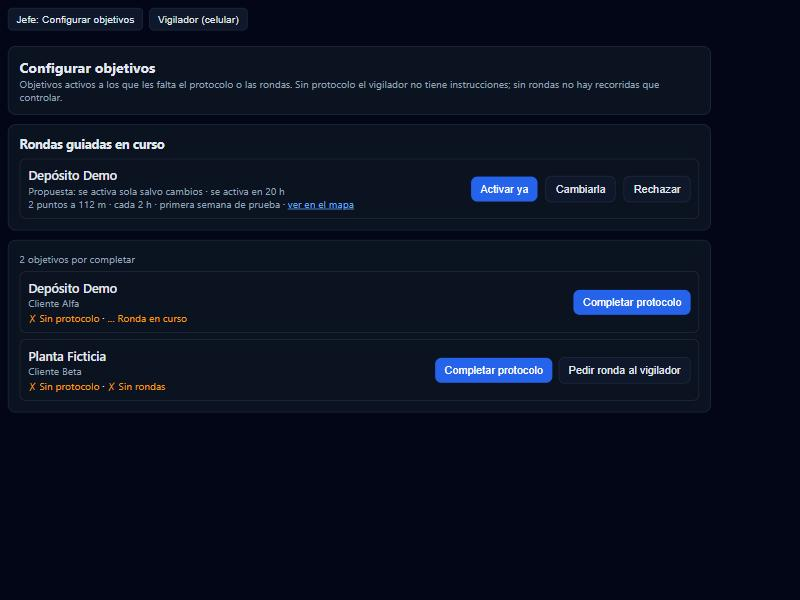
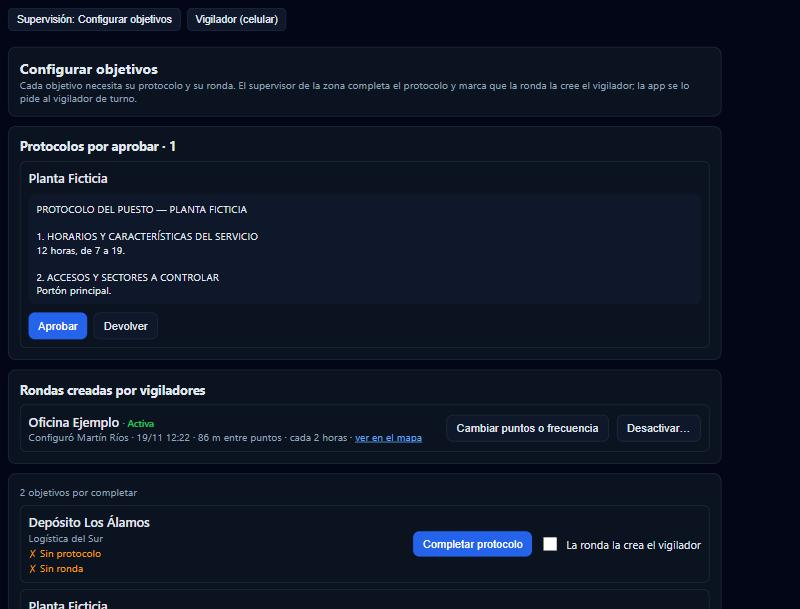
Alta de protocolos y rondas: hora en 24 h, documento actualizado y capturas con datos ficticios

diff --git a/components/configuracion-guiada/ConfiguracionGuiadaPanel.tsx b/components/configuracion-guiada/ConfiguracionGuiadaPanel.tsx
@@ -158,7 +158,7 @@ export default function ConfiguracionGuiadaPanel({ objetivos, puedeAprobar, nomb
                 <div style={{ flex: '1 1 260px' }}>
                   <div style={{ fontWeight: 600 }}>{nombre(g.objetivo_id)} <span style={{ fontSize: 12, color: g.estado === 'activa' ? C.verde : C.ambar }}>· {ETIQUETA_ESTADO_RONDA_GUIADA[g.estado]}</span></div>
                   {g.estado === 'activa' ? (
-                    <div style={sub}>Configuró {nombrePersona(g.capturada_por)} · {g.activada_at ? new Date(g.activada_at).toLocaleString('es-AR', { dateStyle: 'short', timeStyle: 'short' }) : ''} · {g.distancia_metros} m entre puntos · {textoFrecuencia(g.frecuencia_minutos ?? 120)}
+                    <div style={sub}>Configuró {nombrePersona(g.capturada_por)} · {g.activada_at ? new Date(g.activada_at).toLocaleString('es-AR', { day: '2-digit', month: '2-digit', hour: '2-digit', minute: '2-digit', hour12: false }).replace(',', '') : ''} · {g.distancia_metros} m entre puntos · {textoFrecuencia(g.frecuencia_minutos ?? 120)}
                       {g.p1_lat != null && g.p2_lat != null && <> · <a style={{ color: '#60a5fa' }} target="_blank" rel="noreferrer" href={`https://www.google.com/maps/dir/${g.p1_lat},${g.p1_lng}/${g.p2_lat},${g.p2_lng}`}>ver en el mapa</a></>}</div>
                   ) : (
                     <div style={sub}>{nombrePersona(g.capturada_por)} no pudo crearla: {MOTIVOS_PROBLEMA[g.motivo_revision ?? 'otro']}{g.detalle_revision ? ` (${g.detalle_revision})` : ''}. No se activó ninguna ronda.</div>

diff --git a/docs/gestion-empresarial/configuracion-guiada.md b/docs/gestion-empresarial/configuracion-guiada.md
@@ -1,55 +1,85 @@
-# Configuración guiada de objetivos nuevos (19/11/2026)
+# Alta automática de protocolos y rondas (diseño aprobado el 19/11/2026)
 
-Rama `feat/tablero-gerencia-casos`. Todo apagado: nada desplegado con esto visible, nada aplicado en la base, ningún mensaje enviado.
+Rama `feat/tablero-gerencia-casos`. **Todo apagado**: nada en producción, migraciones sin aplicar, ningún mensaje enviado. Demostración: https://claude.ai/artifact/28crFvGT6uPACoMNpBJ5yP
 
-## Qué hace
+## Cómo funciona
 
-1. **Aviso a jefes operativos** (`app/api/whatsapp/objetivo-sin-configurar`)
-   - Cuándo: 30 min después de crear un objetivo que no tiene protocolo vigente ni rondas activas.
-   - A quién: jefe de supervisores y dirección operativa.
-   - Cómo: WhatsApp con plantilla, que explica qué objetivo es y cómo cargarlo. Trae un botón a la app.
-   - Alcance: sólo objetivos creados después de la activación (`WHATSAPP_OBJETIVO_SIN_CONFIG_DESDE`). Los 22 que ya existen sin configurar no reciben aviso, para no hacer un envío masivo.
-2. **Configurar objetivos** (pantalla nueva, `NEXT_PUBLIC_CONFIGURACION_GUIADA=1`, para quien gestiona personal o supervisa todas las zonas)
-   - Lista de objetivos sin protocolo o sin rondas.
-   - **Completar protocolo**: 7 preguntas simples (5 obligatorias), vista previa y guardado. Usa `protocolo_guardar`, que **ya existe en producción**: el protocolo queda vigente y el vigilador lo ve y confirma al entrar al turno, con el aviso actual.
-   - **Pedir ronda al vigilador**.
-   - **Rondas guiadas en curso**: muestra el mapa de los 2 puntos, cuánto falta para que se active sola, y los botones *Activar ya*, *Cambiarla* (va a Rondas) y *Rechazar* (con motivo).
-3. **Vigilador** (`RondaGuiadaCaptura`, dentro de su app, con la misma variable)
-   - Paso 1: "Dirigite a un extremo del puesto" → *Marcar punto 1*.
-   - Paso 2: "Caminá hasta el otro extremo" → *Marcar punto 2*.
-   - El GPS se lee unos segundos y se queda con la lectura más precisa.
-   - Controles, en la app y en la base:
-     - precisión de 25 m o menos;
-     - cada punto a 500 m o menos del objetivo;
-     - entre 20 y 300 m entre los dos puntos;
-     - sólo marca quien tiene turno hoy o ayer en ese objetivo.
-4. **Ronda creada**
-   - Recorrida de 2 puntos GPS, radio 25 m, cada 120 min, foto opcional.
-   - Queda **propuesta** (inactiva) y se avisa a los supervisores de la zona y a los jefes (`app/api/push/ronda-guiada`).
-   - A las **24 h** se activa sola, **salvo que la hayan cambiado** (otra versión) o rechazado. Si la cambiaron, queda "modificada" y la activa quien la cambió.
-   - Semana de prueba: `prueba_hasta`.
+1. **Se crea un objetivo.** A los 30 minutos, si le falta el protocolo o la ronda, llega un WhatsApp (plantilla `objetivo_nuevo_sin_configurar`, aprobada) a:
+   - Juan Cruz Romero (Gerencia).
+   - Rodolfo Romero (Dirección operativa / Director técnico).
+   - Aldo Monzón (Jefe de supervisores).
+   - El supervisor de la zona.
+
+   Sólo se avisan objetivos nuevos: los que ya existen no generan un envío masivo.
+2. **El supervisor entra a "Configurar objetivos"** (app → Administración):
+   - **Completar protocolo**: 7 preguntas. El texto se arma sólo con lo que escribe y se envía a aprobación.
+   - **Tilda "La ronda la crea el vigilador"**. Puede destildarla mientras el vigilador no la haya creado.
+3. **Aprobación del protocolo** (Aldo, Rodolfo o Gerencia), en la misma pantalla:
+   - **Aprobar**: queda vigente y el vigilador lo lee y confirma al entrar al turno, con el circuito actual.
+   - **Devolver**: con motivo. El supervisor lo ve y lo corrige.
+4. **El vigilador de turno** (ya trabajando o al entrar; la app revisa cada 2 minutos) ve "CREAR LA RONDA":
+   - Paso 1: "Dirigite a un extremo del puesto… MARCAR PUNTO 1".
+   - Paso 2: "Ahora dirigite al otro extremo… MARCAR PUNTO 2".
+   - Ve la precisión del GPS en vivo. El botón se habilita con ±30 m o mejor.
+   - Los puntos deben estar dentro del área del objetivo (su radio + precisión + 25 m).
+   - Los dos puntos deben estar más separados que la suma de sus precisiones. No hay distancia fija.
+5. **Ronda activa al instante.**
+   - Frecuencia: la del objetivo (campo nuevo opcional) o 2 h.
+   - Ve el mapa, la distancia y RONDA ACTIVA.
+   - No hay exigencias hacia atrás: la primera ventana exigible es la siguiente del turno. La app ya descarta toda ventana anterior a la creación de la ronda.
+   - Queda registrado quién la configuró, la hora real y la precisión.
+6. **Aviso a los cuatro responsables**:
+   - Push en la app.
+   - WhatsApp con la plantilla `ronda_configurada_activa` (aprobada): objetivo, vigilador, fecha y hora, distancia, frecuencia, RONDA ACTIVA y botón a la app.
+   - Un solo aviso por ronda y persona.
+7. **Si algo falla**:
+   - **Sin señal**: los puntos se guardan en el celular con su hora real y se envían solos al volver la conexión. La ronda se activa recién al llegar.
+   - **GPS malo o no llega a un extremo** (cerrado, no puede dejar el ingreso, peligro u obra, GPS, otro): elige el motivo con un toque. **No se activa ninguna ronda**, queda "requiere revisión" y se avisa por push a supervisión, que puede volver a pedírselo.
+8. **Supervisión** ve las rondas creadas por vigiladores (mapa, datos y quién la hizo) y puede:
+   - **Cambiar puntos o frecuencia** desde Rondas, con la edición y auditoría actuales.
+   - **Desactivar** con motivo registrado. Lo ya registrado no se borra.
 
 ## Probado
-- Vitest: 5 pruebas de la lógica de configuración guiada y 3 del aviso de objetivo sin configurar.
-- PGlite: `supabase/pruebas/ronda-guiada/run.mjs`, 21/21. Cubre:
-  - permisos;
-  - turno obligatorio para marcar;
-  - GPS impreciso, lejos, muy cerca y muy lejos;
-  - creación de la ronda con 2 puntos;
-  - que no se active antes de 24 h;
-  - activación automática;
-  - que no se active si la cambiaron;
-  - rechazo con motivo;
-  - que nadie escriba directo en la tabla.
-- Vista previa local con datos ficticios y GPS simulado: formulario, guardado, pedido, los 2 pasos del vigilador y el error "muy cerca". Capturas en `capturas/configurar-objetivos-ficticio.jpg` y `capturas/ronda-guiada-vigilador-ficticio.jpg`.
-- Se comprobó contra producción (sólo lectura) que la creación de la ronda cumple los controles reales: puesto obligatorio, política de foto, no activar sin puntos y puntos no duplicados.
+- **Vitest**: 71 pruebas en 9 archivos, todas OK. Las de este módulo incluyen:
+  - precisión máxima;
+  - área del objetivo;
+  - separación según precisión, sin mínimo fijo;
+  - texto del protocolo;
+  - variables de las dos plantillas aprobadas;
+  - hora en formato de 24 h.
+- **PGlite**, `supabase/pruebas/ronda-guiada/run.mjs`: 32/32. Cubre:
+  - apagado por defecto;
+  - pedido por supervisión;
+  - sólo el vigilador con turno puede marcar;
+  - GPS impreciso, punto fuera del objetivo y puntos indistinguibles;
+  - activación inmediata sin ventanas hacia atrás;
+  - frecuencia propia del objetivo;
+  - pedido automático sólo para objetivos nuevos;
+  - "no puedo llegar" sin crear ronda;
+  - volver a pedir;
+  - desactivar con motivo;
+  - historial inmutable;
+  - protocolo pendiente de aprobación, sin duplicados y devuelto sólo por quien aprueba;
+  - el supervisor de otra zona no puede enviar.
+- **Vista previa local con datos ficticios y GPS simulado**:
+  - supervisor: tildar y destildar, devolver con motivo, aprobar;
+  - vigilador: GPS impreciso (botón deshabilitado), puntos demasiado juntos, ronda activa con mapa;
+  - sin señal (2 puntos guardados y enviados al volver la red);
+  - "no puedo llegar".
+- **Revisado contra producción (sólo lectura)**:
+  - la creación cumple los controles reales de rondas;
+  - Juan Cruz, Rodolfo y Aldo existen, están activos y tienen teléfono;
+  - Rodolfo y Aldo **no tienen activadas las notificaciones de la app**: les llegaría sólo el WhatsApp.
 
-## Para encenderlo (requiere su aprobación)
-1. Migraciones `20261217120000` (envíos sin turno) y `20261218120000` (ronda guiada). Probarlas antes en una rama de Supabase.
-2. Plantillas en Meta: `objetivo_nuevo_sin_configurar` y `ronda_guiada_propuesta` (textos en `lib/objetivo-sin-configurar.ts` y `lib/configuracion-guiada.ts`).
-3. Variables `NEXT_PUBLIC_CONFIGURACION_GUIADA=1` y `WHATSAPP_OBJETIVO_SIN_CONFIG_DESDE` (fecha de inicio).
-4. Cambiar `ENVIO_HABILITADO` y `HABILITADO` a `true` en las dos rutas y programar el cron, por ejemplo cada 15 minutos.
+## Para encenderlo (requiere su aprobación expresa)
+1. Aplicar las migraciones `20261217120000` (envíos sin turno) y `20261218120000` (este flujo), probándolas antes en una rama de Supabase.
+2. Cargar en `ronda_guiada_config.avisar_usuarios` los ids de Juan Cruz, Rodolfo y Aldo.
+3. Variables de entorno:
+   - `NEXT_PUBLIC_CONFIGURACION_GUIADA=1`;
+   - `WHATSAPP_OBJETIVO_SIN_CONFIG_DESDE` (desde qué fecha se avisan objetivos nuevos).
+4. Cambiar `ENVIO_HABILITADO` y `HABILITADO` a `true` en `app/api/whatsapp/objetivo-sin-configurar` y `app/api/push/ronda-guiada`, y programar el cron (cada 10–15 min).
+5. Opcional: `pedido_automatico = true` para que el pedido al vigilador salga solo en objetivos nuevos, sin que el supervisor tilde nada.
 
 ## Pendiente
-- **Semana de prueba en la evaluación del vigilador:** queda registrada (`ronda_guiada.prueba_hasta`), pero falta excluirla del cálculo. Eso va en la migración `20261122120000` (ventanas exigidas), que todavía no está aplicada. No se tocaron las funciones de evaluación vigentes, para no alterar resultados.
-- **Formulario del protocolo:** el protocolo se guarda para todo el objetivo. Si un objetivo tiene varios puestos con instrucciones distintas, se cargan desde Protocolos.
+- Protocolo por puesto: el formulario carga uno para todo el objetivo. Los puestos con instrucciones distintas siguen por Protocolos.
+- Cargar la frecuencia de ronda por objetivo: el campo existe al aplicar la migración, pero no tiene pantalla todavía. Se carga por base o se agrega al formulario del objetivo.
